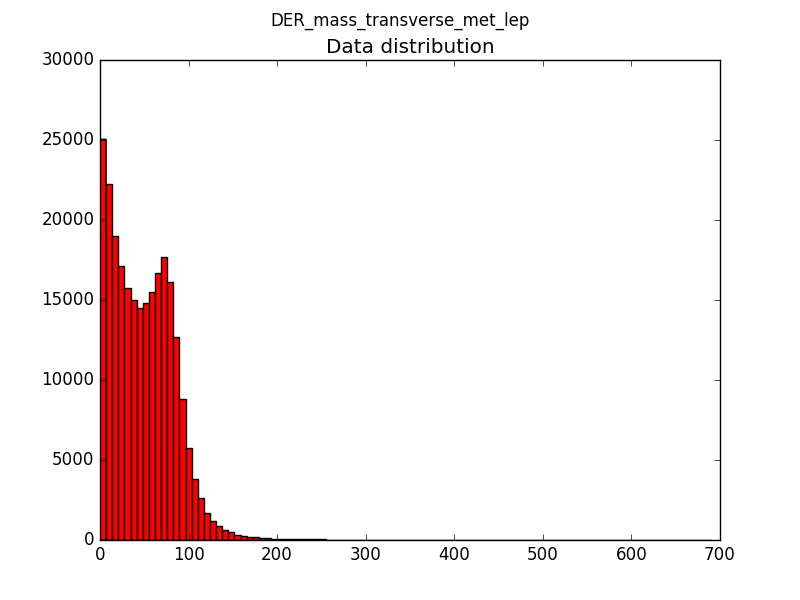
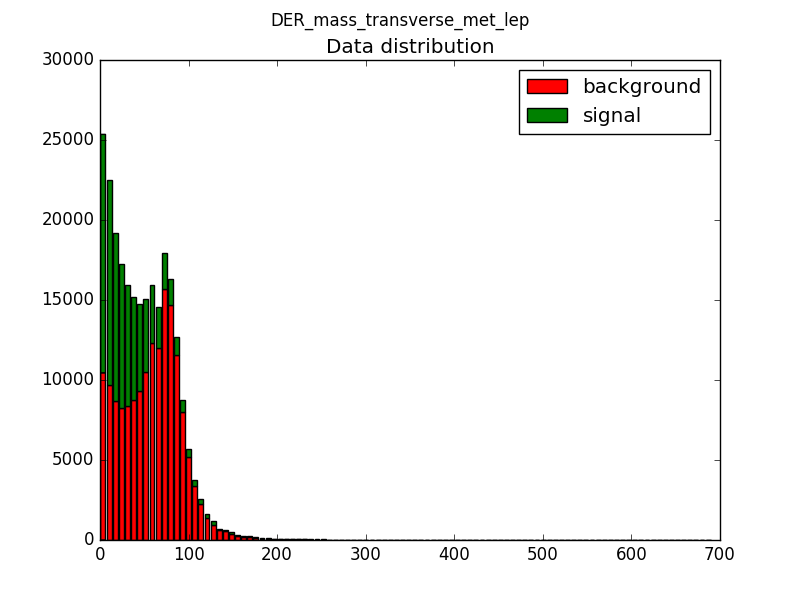
Graphics improved

Changed region(s): [[0.125, 0.21, 0.3125, 0.9], [0.625, 0.09, 0.9062, 0.24]]

diff --git a/feature_preprocessing/features_histograms.py b/feature_preprocessing/features_histograms.py
@@ -1,4 +1,4 @@
-#python 3.5
+#python 3.5
 #saves(shows) histogram of every feature
 import sys, os  #is necessary for relative import
 sys.path.append(os.path.join(os.path.dirname(__file__), '..', 'components')) #is necessary for relative import
@@ -16,11 +16,20 @@ v_end = len(tds[0])
 i = 0
 #if no path is defined then histogram will be shown
 
-def histImage(vals, bars = number_of_bars, path = "", figure_name = ""):
+def histImage(vals, yvals, bars = number_of_bars, path = "", figure_name = ""):
     assert len(vals)>=1
-    y, bins, patches = plt.hist(vals, bins = bars, color = 'red')
+    assert len(vals) == len(yvals)
+    vs = np.array(list(map(int,vals)))
+    bSelector = np.array([v == 0 for v in yvals])
+    sSelector = np.array([v == 1 for v in yvals])
+    bvals = vs[bSelector]
+    svals = vs[sSelector]
+    
+    y, bins, patches = plt.hist([bvals, svals], bins = bars, stacked = True, color = ['red','green'])
     plt.title("Data distribution")
     plt.suptitle(figure_name)
+    plt.legend(['background','signal'])
+    #plt.show()
     if path == "":    
         plt.show()
     else:
@@ -30,4 +39,4 @@ def histImage(vals, bars = number_of_bars, path = "", figure_name = ""):
 
 for i in range(v_start,v_end):
     stri = str((i+1)//10) + str((i+1)%10)
-    histImage(txs[:,i], number_of_bars, "../calculated/features_histograms/" + stri + args_x[i+1] + ".png", args_x[i+1])
+    histImage(txs[:,i], tys[:,1], number_of_bars, "../calculated/features_histograms/" + stri + args_x[i+1] + ".png", args_x[i+1])
